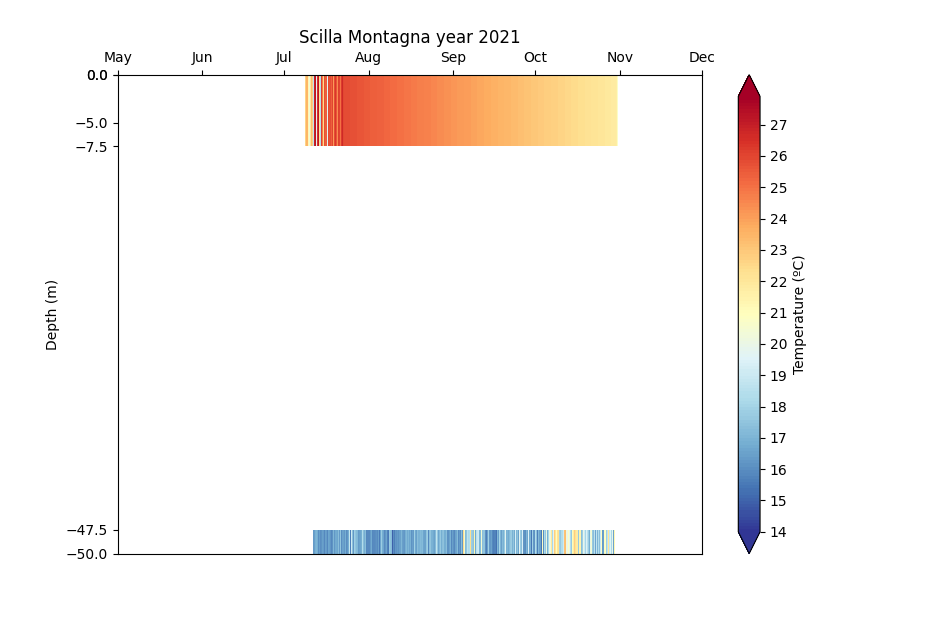
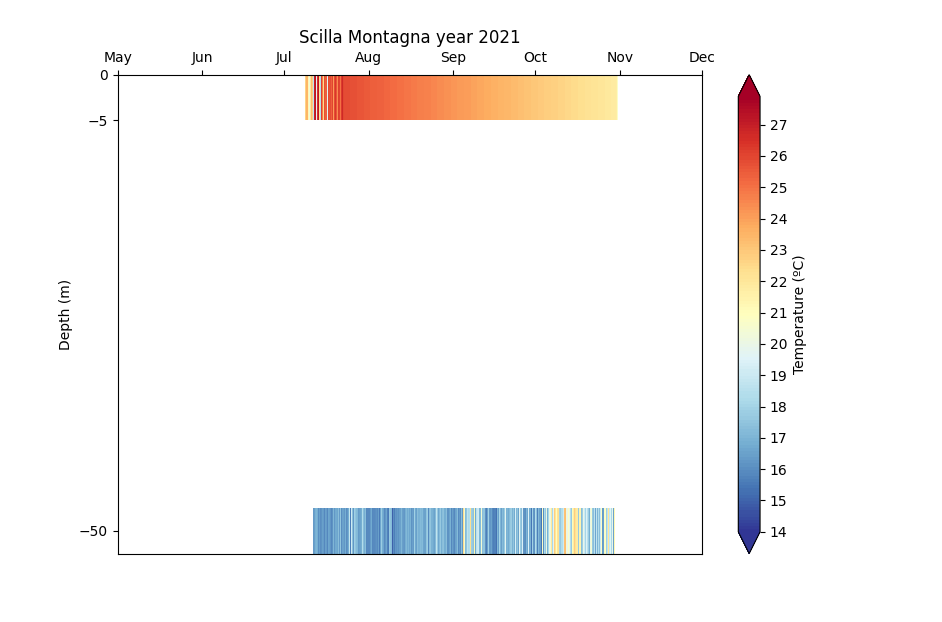
Deleted ticks of depths not real on data (stratification). Tested Cutin 2011. Stratification: now interpolates maximum of 10m difference (before maximum of 5m). Changed method of selecting and deleting big gaps of vertical data

diff --git a/tmednetGUI/user_interaction.py b/tmednetGUI/user_interaction.py
@@ -777,7 +777,7 @@ class tmednet(tk.Frame):
                 for i in range(0, len(depths)):
                     if i < len(depths) - 1:
                         res = depths[i + 1] - depths[i]
-                        if res > 5.:
+                        if res > 10.:
                             vertical_split.append(i)
                 if vertical_split:
                     old_index = 0
@@ -807,6 +807,9 @@ class tmednet(tk.Frame):
             self.plot.xaxis.set_major_formatter(fmt)
             # Sets the x axis on the top
             self.plot.xaxis.tick_top()
+            # Sets the ticks only for the whole depths, the ones from the file
+            tick_depths = [-i for i in depths if i.is_integer()]
+            self.plot.set_yticks(tick_depths)
 
             self.canvas.draw()
 
@@ -1097,10 +1100,21 @@ class tmednet(tk.Frame):
         box = self.plot.get_position()
         self.plot.set_position([box.x0, box.y0, box.width * 0.8, box.height])
         # Draws the legend for the different years
-        self.plot.legend(legend_years, title='Year', loc='center left', bbox_to_anchor=(1, 0.5))
+        legend = self.plot.legend(legend_years, title='Year', loc='center left', bbox_to_anchor=(1, 0.5))
         self.plot.set(ylabel='Depth (m)',
                       title=historical.split('_')[4] + ' Summer (JAS) days ≥ 23ºC')
         self.plot.xaxis.grid(True, linestyle='dashed')
+
+        p = legend.get_window_extent()
+        self.plot.annotate('Annotation Text', (p.p0[0], p.p1[1]), (p.p0[0], p.p1[1]),
+                 xycoords='figure pixels', zorder=9)
+        # these are matplotlib.patch.Patch properties
+        props = dict(boxstyle='round', facecolor='wheat', alpha=0.5)
+
+        # place a text box in upper left in axes coords
+        txtstr = '*data period not complete'
+        self.plot.text(1, 0.55, txtstr, transform=self.plot.transAxes, fontsize=10,
+                verticalalignment='top', bbox=props)
         self.canvas.draw()
         # Adds tabs for the temperatures being buttons to call raiseTab and plot the Thresholds
         for i in range(23, 29):
@@ -1186,6 +1200,13 @@ class tmednet(tk.Frame):
             self.plot.set(ylabel='Depth (m)',
                           title=historical.split('_')[4] + ' Summer(JAS) days ≥ ' + str(i) + 'ºC')
             self.savefilename = historical.split('_')[3] + '_3_' + str(i) + '_' + year + '_' + historical.split('_')[4]
+            # these are matplotlib.patch.Patch properties
+            props = dict(boxstyle='round', facecolor='wheat', alpha=0.5)
+
+            # place a text box in upper left in axes coords
+            txtstr = '*data period not complete'
+            self.plot.text(0.05, 0.95, txtstr, transform=self.plot.transAxes, fontsize=14,
+                           verticalalignment='top', bbox=props)
             self.plot.xaxis.grid(True, linestyle='dashed')
             self.canvas.draw()
 

diff --git a/tmednetGUI/file_manipulation.py b/tmednetGUI/file_manipulation.py
@@ -451,7 +451,20 @@ def historic_to_df(historic, year, start_month='05', end_month='12'):
         filtered_df.index = pd.to_datetime(filtered_df.index)
         final_df = filtered_df.interpolate(method='time', axis=0, limit_area='inside', limit= 24, limit_direction='forward')
     elif start_month == '05':
+        # Deletes the depths that are all null
         depths = filtered_df.columns
+        for depth in depths:
+            if filtered_df[depth].isnull().all():
+                del filtered_df[depth]
+        depths = filtered_df.columns
+        int_depths = [eval(i) for i in depths]
+        depth_diff = [t - s for s, t in zip(int_depths, int_depths[1:])]
+        for i in range(0, len(depth_diff)):
+            if depth_diff[i] > 13:
+                filtered_df.insert(filtered_df.columns.get_loc(depths[i + 1]) + 1, str(int(depths[i + 1]) + 2.5), filtered_df[depths[i + 1]])
+                filtered_df.insert(filtered_df.columns.get_loc(depths[i + 1]), str(int(depths[i + 1]) - 2.5),
+                                   filtered_df[depths[i + 1]])
+        '''
         bad_depths = []
         for i in range(0,len(depths)):
             if i != len(depths) - 1:
@@ -464,7 +477,9 @@ def historic_to_df(historic, year, start_month='05', end_month='12'):
                                                                                filtered_df[depths[i]])
                     bad_depths.append(depths[i - 1])
         for depth in bad_depths:
-            del filtered_df[depth]
+            if depth in filtered_df.columns:
+                del filtered_df[depth]
+        '''
         final_df = filtered_df.interpolate(axis=1, limit_area='inside')
 
     minyear = pd.to_datetime(df.index).year.min()
